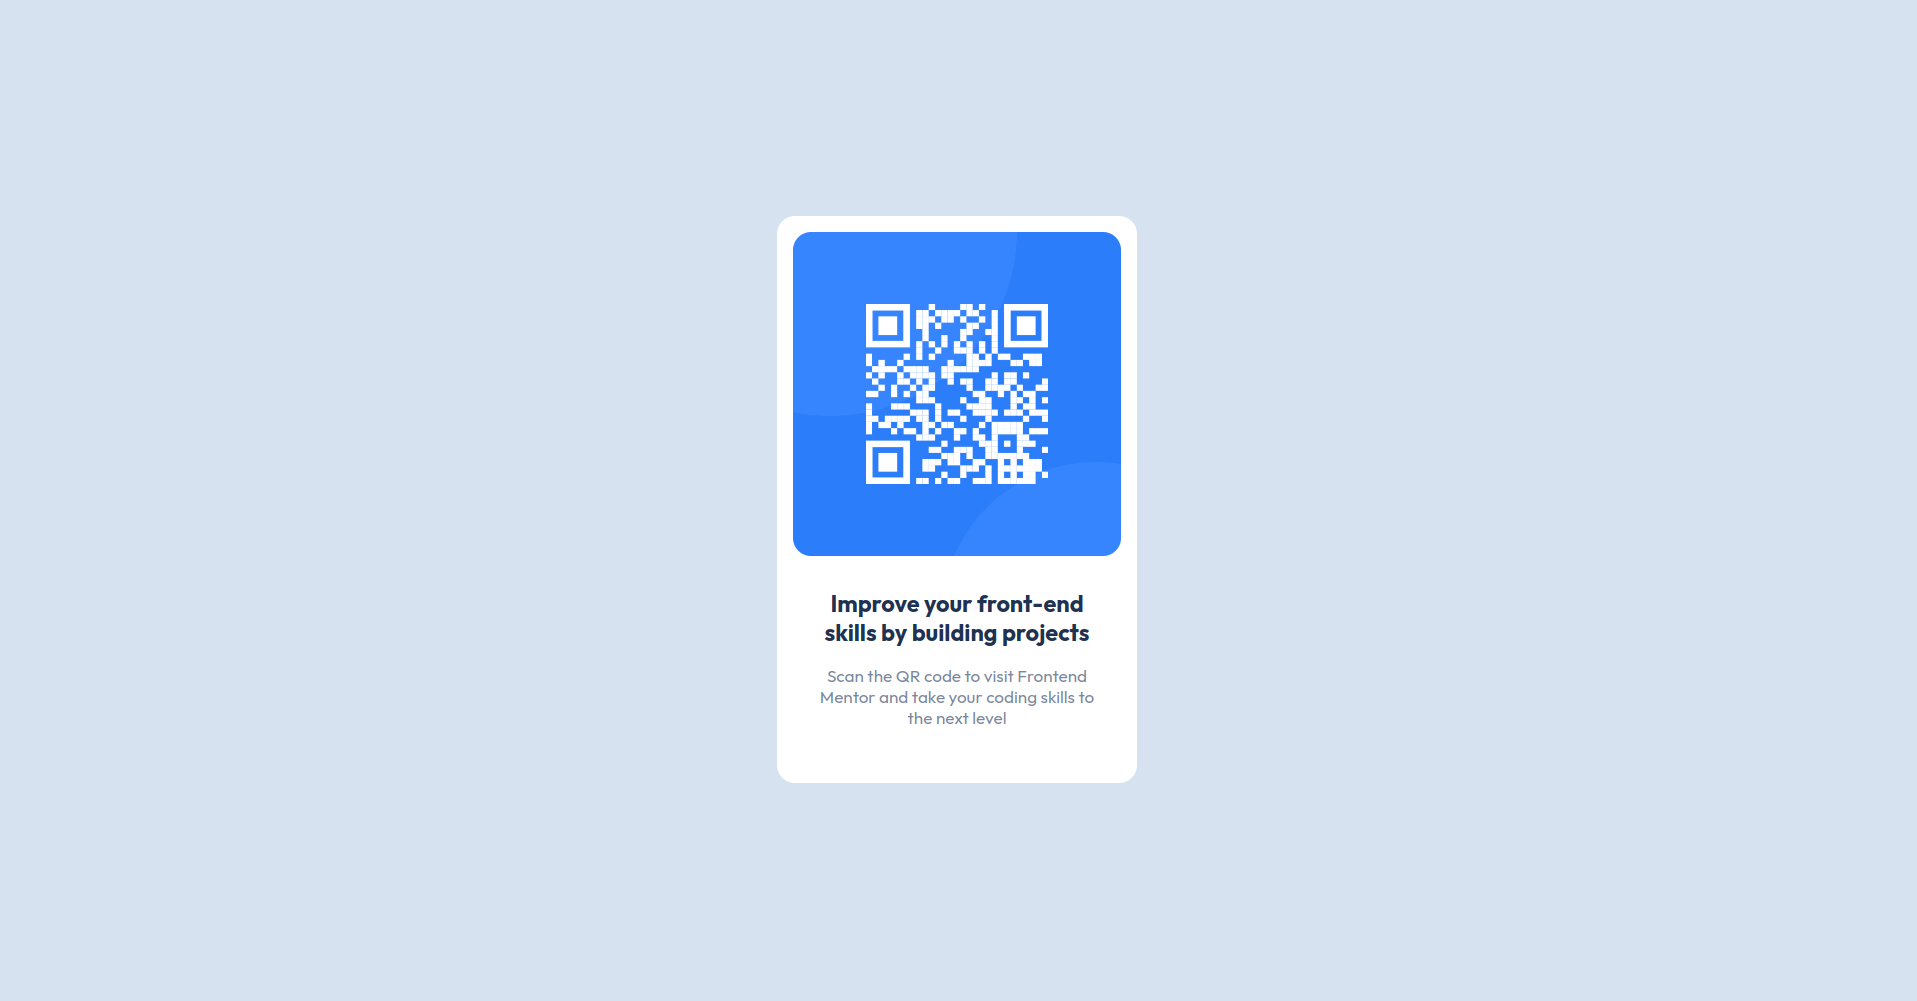
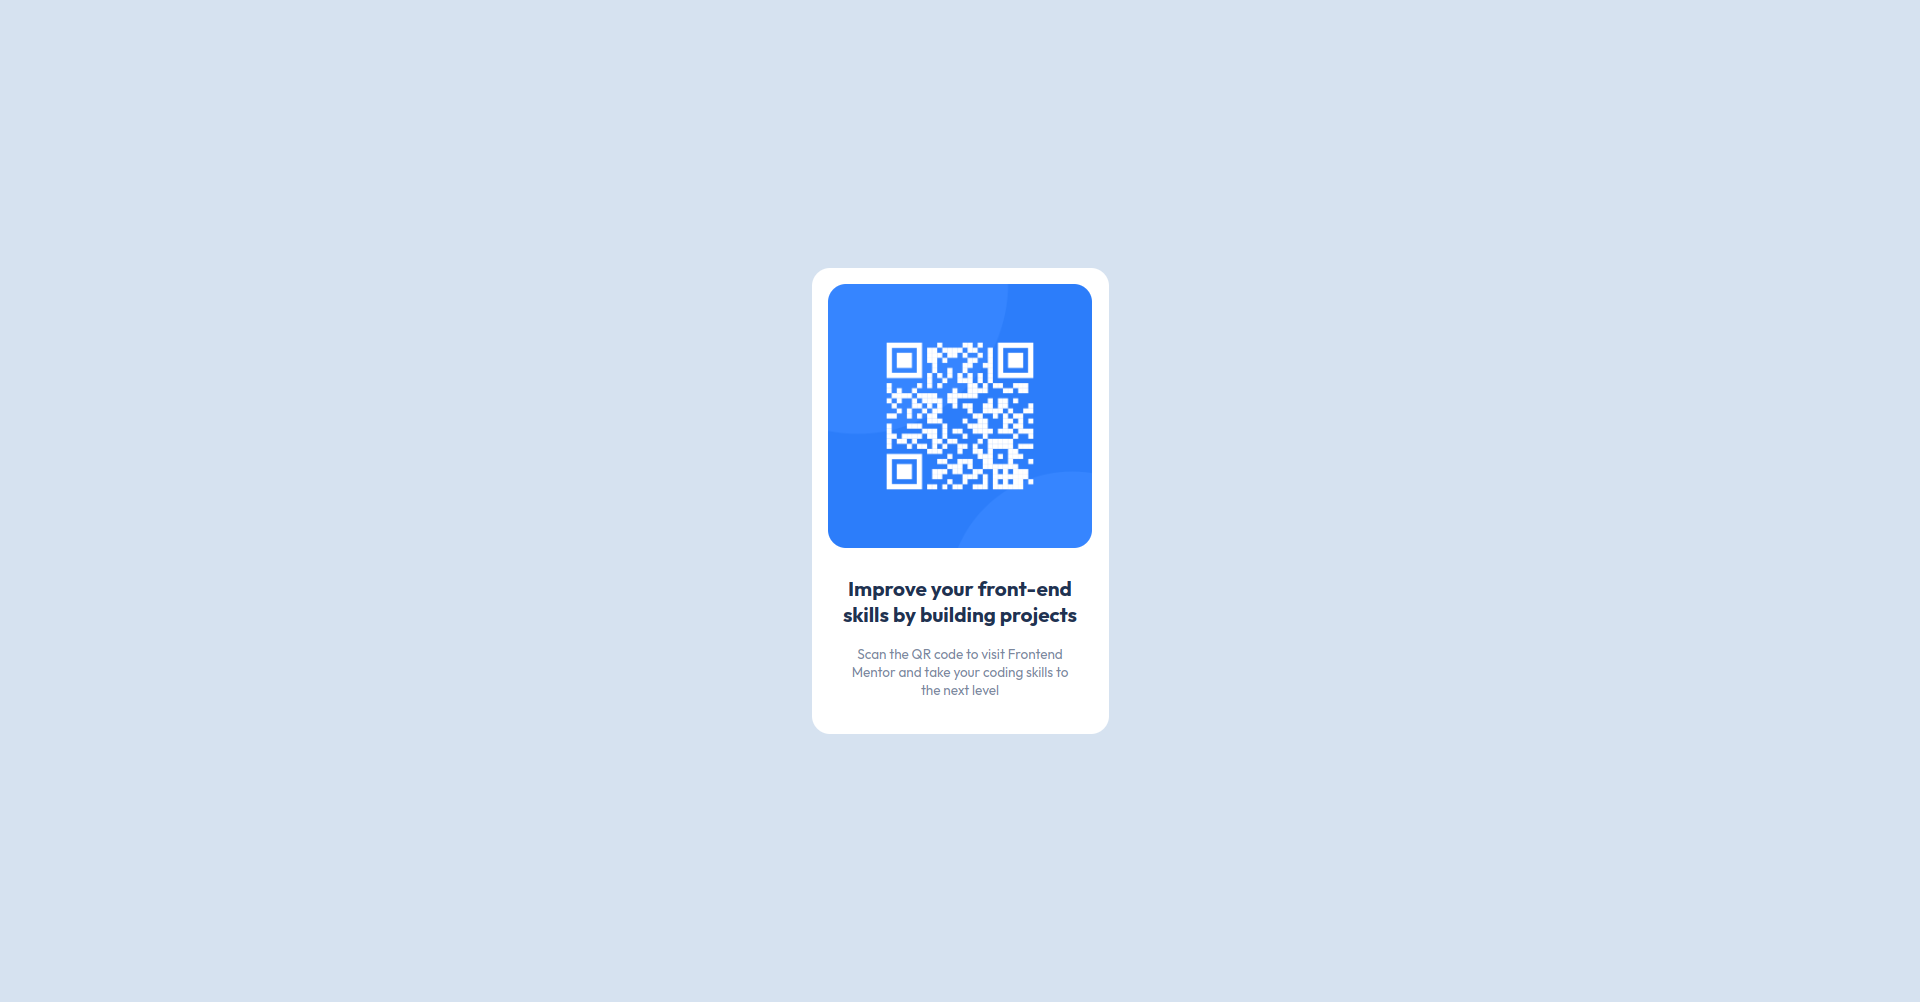
Fix the component to be responsive in every device Remove the media query because it was only making the component responsive to just one screen size. Add some padding to the body so it would create same space around the component in mobile devices. Add a width of 100% to the component, and restrict

Changed region(s): [[0.4001, 0.2168, 0.6155, 0.8052]]

diff --git a/style.css b/style.css
@@ -8,6 +8,7 @@
 
 body {
   height: 100vh;
+  padding: 20px;
   background-color: hsl(212, 45%, 89%);
   font-family: "Outfit", sans-serif;
   display: flex;
@@ -16,8 +17,9 @@ body {
 }
 
 .component {
-  width: 400px;
-  height: 630px;
+  width: 100%;
+  max-width: 330px;
+  max-height: 600px;
   padding: 18px;
   background-color: #fff;
   border-radius: 20px;
@@ -30,41 +32,21 @@ body {
 
 .component > img {
   width: 100%;
-  height: 360px;
+  max-width: 300px;
+  max-height: 360px;
   border-radius: 20px;
-  margin-bottom: 16px;
+  margin-bottom: 10px;
 }
 
 .component > h1 {
-  font-size: 26px;
+  font-size: 23px;
   color: hsl(218, 44%, 22%);
   width: 90%;
 }
 
 .component > p {
   color: hsl(220, 15%, 55%);
-  font-size: 19px;
+  font-size: 15px;
   width: 90%;
-}
-
-@media (max-width: 375px) {
-  .component {
-    padding: 15px;
-    width: 85%;
-    height: 80%;
-    padding-bottom: 0;
-  }
-
-  .component > img {
-    height: 58%;
-    margin-bottom: 12px;
-  }
-
-  .component > h1 {
-    font-size: 22px;
-  }
-
-  .component > p {
-    font-size: 15px;
-  }
+  padding-bottom: 20px;
 }
